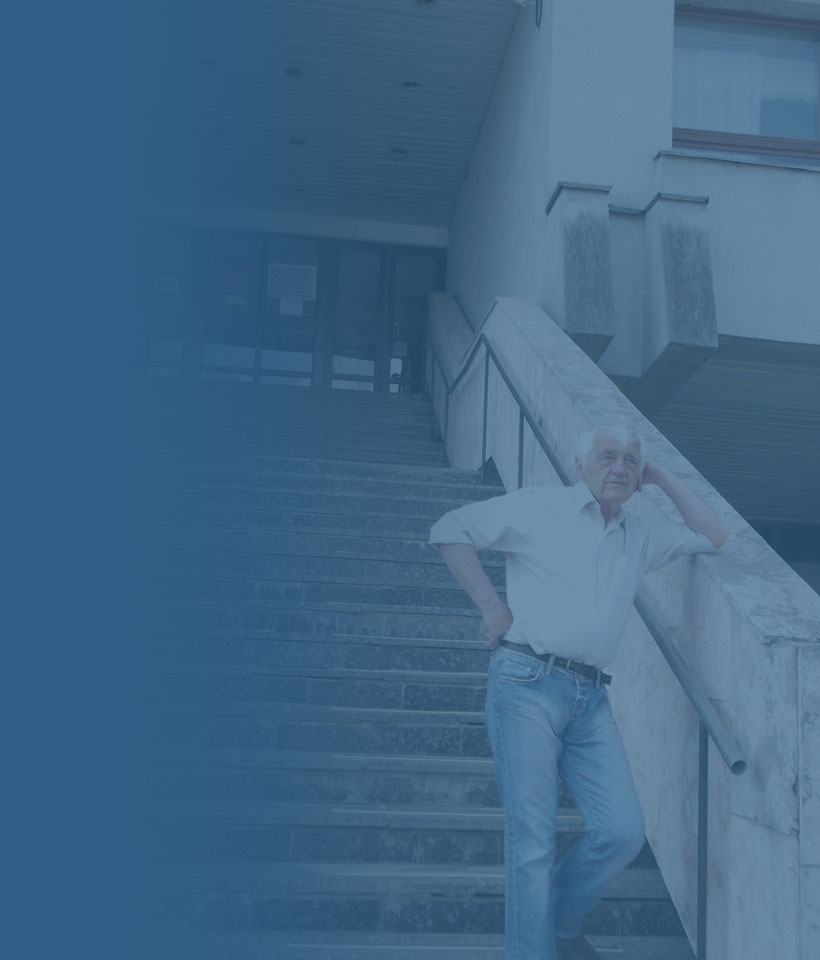
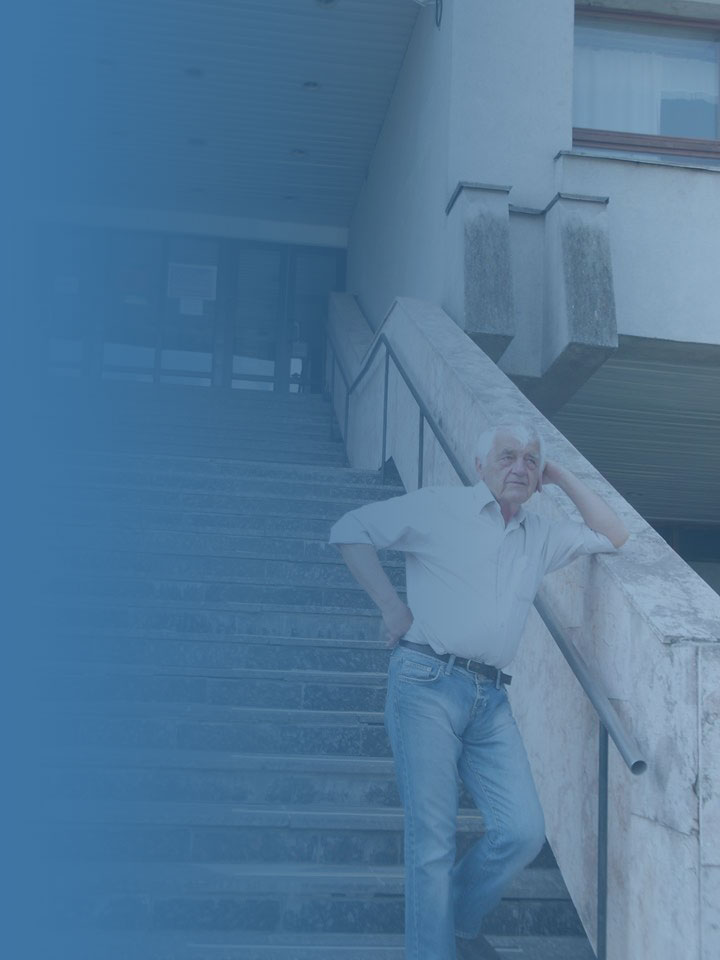
add background picture to main header

diff --git a/public/css/app.css b/public/css/app.css
@@ -102,7 +102,7 @@
 }
 .Page__content {
   background: #fff;
-  box-shadow: 0px 0px 10px 0px #636363;
+  box-shadow: 0px 0px 10px 0px #717171;
   padding: 30px 50px;
   font-size: calc(14px + 2 * ((100vw - 420px) / 860));
   font-weight: 100;
@@ -611,7 +611,7 @@
   border: none;
   padding: 0 20px;
   height: 50px;
-  background: #fffc99;
+  background: #fffdba;
   color: #000;
   font-size: 22px;
   font-weight: normal;
@@ -620,7 +620,7 @@
   float: right;
 }
 .Button:hover {
-  background: #fff80a;
+  background: #fff920;
 }
 .Input {
   width: 100%;
@@ -839,7 +839,7 @@
   box-shadow: inset 0 0 3px 0 #1f4667;
 }
 .search__results span {
-  color: #fffc99;
+  color: #fffdba;
 }
 .search__reset {
   position: absolute;
@@ -993,7 +993,7 @@
 .comments {
   background: #fff;
   padding-top: 50px;
-  box-shadow: 0px -2px 10px 1px #301840;
+  box-shadow: 0px 0px 10px 0px #717171;
 }
 .comments__content {
   padding: 30px 50px 70px;
@@ -1002,73 +1002,31 @@
   color: #402d4e;
 }
 .header {
+  min-height: 100vh;
   width: 100vw;
   color: #fff;
   font-family: 'Roboto Slab';
-  background-repeat: no-repeat;
-  background-size: contain;
-  background-position: right center;
+  font-size: 20px;
+  font-weight: 100;
   padding: 50px;
   text-align: center;
 }
-@media screen and (max-width: 994px) {
+@media screen and (min-width: 994px) {
   .header {
-    padding: 50px 10px;
+    background: url("../img/backgroundMain.jpg");
+    background-repeat: no-repeat;
+    background-size: contain;
+    background-position: right center;
   }
 }
 .header__container {
-  display: -webkit-flex;
-  display: -ms-flexbox;
-  display: flex;
-  -webkit-flex-wrap: wrap;
-      -ms-flex-wrap: wrap;
-          flex-wrap: wrap;
   margin-top: 50px;
-  width: auto;
-}
-.header__container > div {
-  -webkit-flex: 0 0 auto;
-  -ms-flex: 0 0 auto;
-  flex: 0 0 auto;
-  width: calc(99.999999% * 1/2);
-}
-.header__container > div:nth-child(1n) {
-  margin-right: 0;
-}
-.header__container > div:last-child {
-  margin-right: 0;
-}
-.header__container > div:nth-child(2n) {
-  float: right;
-}
-.header__container > div:nth-child(2n) {
-  margin-right: 0;
-}
-@media screen and (max-width: 994px) {
-  .header__container > div {
-    -webkit-flex: 0 0 auto;
-    -ms-flex: 0 0 auto;
-    flex: 0 0 auto;
-    width: calc(99.999999% * 1/1);
-    text-align: center;
-  }
-  .header__container > div:nth-child(1n) {
-    margin-right: 0;
-  }
-  .header__container > div:last-child {
-    margin-right: 0;
-  }
-  .header__container > div:nth-child(1n) {
-    float: right;
-  }
-  .header__container > div:nth-child(1n) {
-    margin-right: 0;
-  }
+  text-align: center;
 }
 .header__iframe {
-  max-width: 100%;
+  max-width: 700px;
   position: relative;
-  margin: 0 auto 50px;
+  margin: 50px auto;
 }
 .header__iframe__ratio {
   width: 100%;
@@ -1079,13 +1037,13 @@
   text-align: left;
 }
 .header__heading {
+  font-family: 'Lobster', cursive;
   margin-top: 0;
-  font-size: 32px;
-  color: #fff;
-  text-transform: uppercase;
+  font-size: 48px;
+  color: #fffdba;
 }
 .header__button {
-  background: #fffc99;
+  background: #fffdba;
   color: #000;
   border-radius: 0;
   font-size: 24px;
@@ -1098,7 +1056,7 @@
   background: #44ff15;
 }
 .header__button:hover {
-  background: #fff80a;
+  background: #fff920;
 }
 .header__buttons {
   display: -webkit-flex;

diff --git a/resources/views/pages/index.blade.php b/resources/views/pages/index.blade.php
@@ -2,23 +2,18 @@
 @section("content")
 <header class="header">
     @include('partials.search', ['class' => 'search__main', 'searchUrl'=> '/videos/?/search', 'resetUrl' => '/videos'])
-    <div class="container header__container">
-        <div class="header__container__left-column">
-            <div class="Iframe header__iframe">
-                <img class="header__iframe__ratio" src="http://placehold.it/16x9"/>
-                {!! $headerVideo->iframe !!}
-            </div>
-        </div>
-        <div class="header__about">
-            <h1 class="header__heading">{{ $page->heading }}</h1>
-            {{ $page->text }}
-        </div>
+    <div class="Iframe header__iframe">
+        <img class="header__iframe__ratio" src="http://placehold.it/16x9"/>
+        {!! $headerVideo->iframe !!}
     </div>
-    <!-- <div class="header__buttons"> -->
-        <!-- <div>Следующий вебинар на тему: "Время" (19.06.16 16:50)<br><button class="btn header__button">Записаться</button></div> -->
-        <!-- <div>Получайте последние <br><button class="btn header__button header__button--subscription">Подписаться</button></div> -->
-    <!-- </div> -->
+    <h1 class="header__heading">{{ $page->heading }}</h1>
+    {{ $page->text }}
+    <!-- <h2 class="header__quote"></h2> -->
 
+    <!-- <div class="header__buttons"> -->
+    <!-- <div>Следующий вебинар на тему: "Время" (19.06.16 16:50)<br><button class="btn header__button">Записаться</button></div> -->
+    <!-- <div>Получайте последние <br><button class="btn header__button header__button--subscription">Подписаться</button></div> -->
+    <!-- </div> -->
     <!-- <div class="header__arrow"><i class="fa fa-angle-double-down"></i></div> -->
 </header>
 <div class="Section Section--is-purple">
